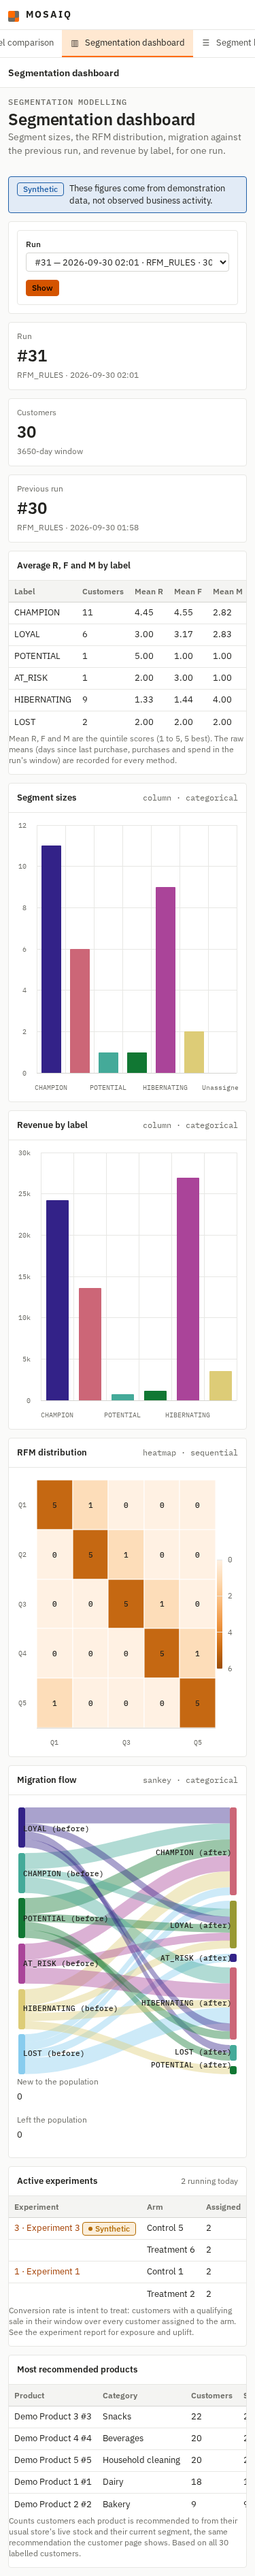
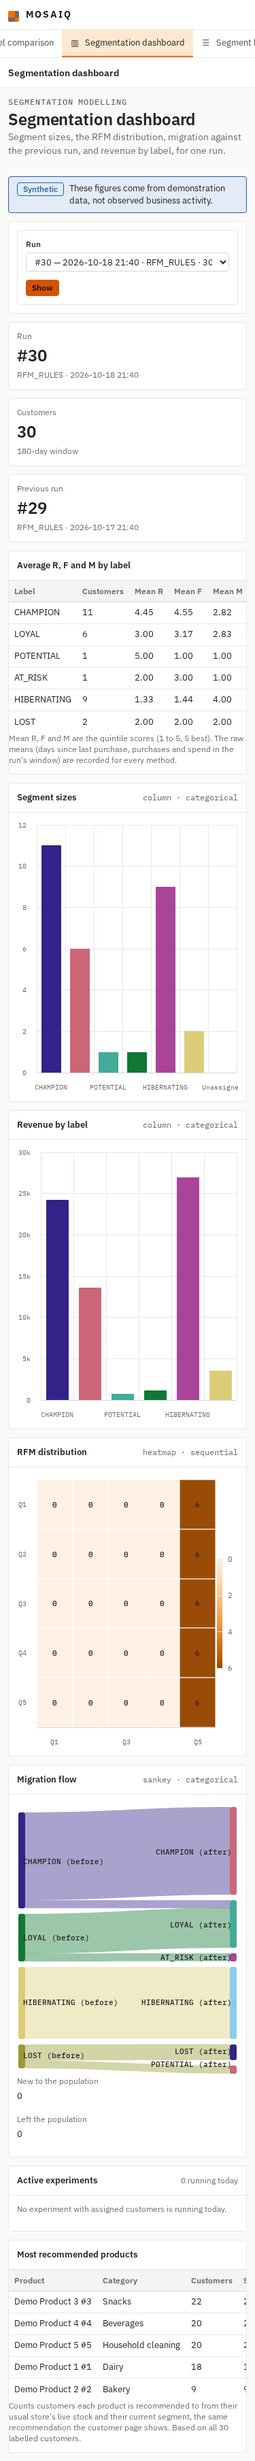
fix(dashboard): keep customers with tied measures in one heatmap quintile (#423)
quintile_bins split ties by customer id, so the seed's 30 customers, all
with 10 purchases, spread across every frequency quintile. It now applies
RN-51's rule, ntile(5) over the distinct values, as score_rfm_rules does.
The test that locked in id-based splitting is replaced, a seed-shaped
regression test is added, and the dashboard captures are retaken.

diff --git a/tests/test_segmentation_dashboard.py b/tests/test_segmentation_dashboard.py
@@ -82,13 +82,37 @@ def test_five_equal_groups_are_split_evenly_best_first() -> None:
     assert bins["c1"] == 1 and bins["c0"] == 1
 
 
-def test_ties_are_broken_by_the_lower_id_so_binning_is_deterministic() -> None:
+def test_tied_values_share_one_bin_whatever_their_ids() -> None:
     pairs = [("b", 1.0), ("a", 1.0), ("c", 1.0)]
 
     bins = quintile_bins(pairs)
 
-    # all tied on value; split by id order, so "a" ranks first (best bin)
-    assert bins["a"] >= bins["b"] >= bins["c"]
+    # RN-51: equal measures, equal bin; the id decides nothing (#423)
+    assert bins["a"] == bins["b"] == bins["c"]
+
+
+def test_ties_never_straddle_a_bin_boundary() -> None:
+    """Ten customers on five distinct values: a row-wise split would put the
+    boundary inside the ties; the distinct-value split never does (#423)."""
+    values = [9.0, 9.0, 9.0, 7.0, 5.0, 5.0, 3.0, 1.0, 1.0, 1.0]
+    pairs = [(f"c{n}", value) for n, value in enumerate(values)]
+
+    bins = quintile_bins(pairs)
+
+    assert {bins[i] for i, v in pairs if v == 9.0} == {5}
+    assert {bins[i] for i, v in pairs if v == 5.0} == {3}
+    assert {bins[i] for i, v in pairs if v == 1.0} == {1}
+
+
+def test_binning_matches_the_scoring_ntile_over_distinct_values() -> None:
+    """Seven distinct values: ntile(5) gives the first two buckets two values
+    each, as web.db.segments' f_bounds does for the same values."""
+    pairs = [(f"c{n}", float(n)) for n in range(7)] + [("dup", 6.0)]
+
+    bins = quintile_bins(pairs)
+
+    assert [bins[f"c{n}"] for n in range(6, -1, -1)] == [5, 5, 4, 4, 3, 2, 1]
+    assert bins["dup"] == bins["c6"]
 
 
 def test_the_result_does_not_depend_on_input_order() -> None:
@@ -225,6 +249,18 @@ def test_with_fewer_scored_customers_than_bins_the_extremes_are_not_both_reached
 
     assert sum(cell.count for cell in heatmap if cell.recency_bin == 1) == 0
     assert sum(cell.count for cell in heatmap if cell.recency_bin == 5) == 1
+
+
+def test_customers_with_the_same_purchase_count_share_a_frequency_bin() -> None:
+    """The seed gives every customer 10 purchases; they spread across all five
+    frequency bins until ties stopped being split by customer id (#423)."""
+    rows = [_rfm(f"c{n:02d}", "LOYAL", days_ago=n + 1, freq=10) for n in range(30)]
+
+    heatmap = build_rfm_heatmap(rows)
+
+    occupied = {cell.frequency_bin for cell in heatmap if cell.count}
+    assert occupied == {5}
+    assert sum(cell.count for cell in heatmap) == 30
 
 
 def test_no_scored_customers_is_25_empty_cells_not_an_error() -> None:

diff --git a/web/services/segmentation_dashboard.py b/web/services/segmentation_dashboard.py
@@ -79,26 +79,25 @@ class NoRuns(ValueError):
 def quintile_bins(pairs: list[tuple[str, float]]) -> dict[str, int]:
     """Bin (id, value) pairs into 1..5, 5 the highest value.
 
-    Ties are broken by the id, ascending, so binning is deterministic and does
-    not depend on the order pairs arrive in. The split is PostgreSQL's own
-    `ntile(5)`: the first `n // 5` buckets absorb one extra row each when `n`
-    is not a multiple of 5, filled in ranked order. With fewer than 5 items
-    some buckets are empty and the extremes are not both reached — the same
-    behaviour the quintile scoring the pipeline itself writes already has, so
-    a screen showing few customers reads the same way there and here.
+    Equal values always share a bin, by the same rule as the quintile scoring
+    in web.db.segments (RN-51, #352): the split is PostgreSQL's `ntile(5)` over
+    the *distinct* values, best first, and each id takes its value's bin. The
+    first `k // 5` buckets absorb one extra value each when the `k` distinct
+    values are not a multiple of 5. With fewer than 5 distinct values some
+    buckets are empty and the extremes are not both reached, as in the scoring,
+    so a screen showing few customers reads the same way there and here. The
+    id decides nothing, so binning does not depend on the order pairs arrive in.
     """
-    ordered = sorted(pairs, key=lambda pair: (-pair[1], pair[0]))
-    n = len(ordered)
-    base, extra = divmod(n, QUINTILES)
-    bins: dict[str, int] = {}
+    distinct = sorted({value for _id, value in pairs}, reverse=True)
+    base, extra = divmod(len(distinct), QUINTILES)
+    bin_of: dict[float, int] = {}
     position = 0
     for bucket in range(1, QUINTILES + 1):
         size = base + (1 if bucket <= extra else 0)
-        for _ in range(size):
-            item_id, _value = ordered[position]
-            bins[item_id] = QUINTILES + 1 - bucket
-            position += 1
-    return bins
+        for value in distinct[position : position + size]:
+            bin_of[value] = QUINTILES + 1 - bucket
+        position += size
+    return {item_id: bin_of[value] for item_id, value in pairs}
 
 
 # ---------- segment sizes ----------

diff --git a/docs/evidence/f340-dashboard-kpis.md b/docs/evidence/f340-dashboard-kpis.md
@@ -76,6 +76,12 @@ by the tests above; the existing captures predate the arm-name text change.
 Captures: `f340-dashboard-1440.png`, `f340-dashboard-375.png`,
 `f340-dashboard-kmeans-1440.png`.
 
+`f340-dashboard-1440.png` and `f340-dashboard-375.png` were recaptured for #423
+on a clean load of the three scripts (PostgreSQL 16, the seed's run #30, no
+experiment moved, so none is running). Every seeded customer has 10 purchases,
+and the heatmap now puts all 30 in one frequency quintile, Q5, as the RN-51
+scoring does; the earlier capture spread them across all five by customer id.
+
 ## Found while checking
 
 The stock column listed every store a product was recommended from: 22 stores for the top

diff --git a/docs/business-rules.md b/docs/business-rules.md
@@ -226,7 +226,9 @@ tell them apart by, and a single shared value naturally falls first in its own
 ordering.
 
 **Enforced:** `web.db.segments.score_rfm_rules`'s `r_bounds`, `f_bounds` and
-`m_bounds`. **Verified** — `tests/test_segments_pipeline_db.py` pins that no
+`m_bounds`; the segmentation dashboard's heatmap bins raw recency and
+frequency by the same rule, in `web.services.segmentation_dashboard.quintile_bins`
+(#423). **Verified** — `tests/test_segments_pipeline_db.py` pins that no
 quintile's ordering names `customer_id`, and against the seeded PostgreSQL, where
 every one of the 30 customers ties on frequency, by
 [`evidence/f352-quintile-ties.md`](evidence/f352-quintile-ties.md).
